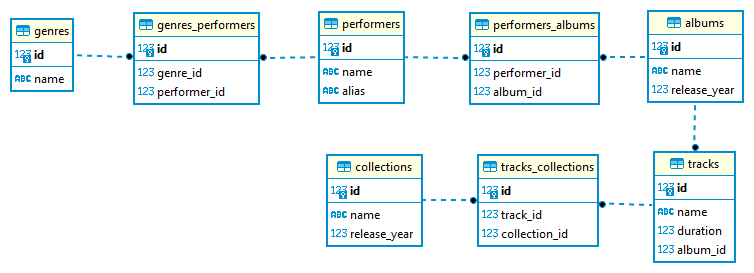
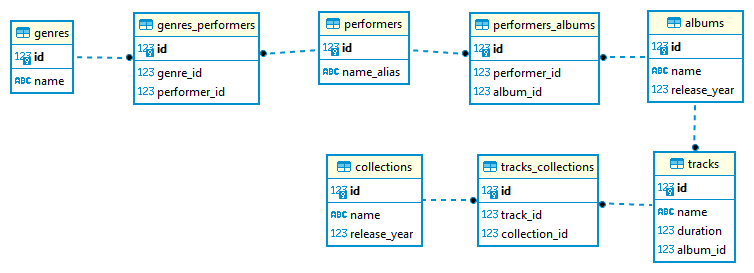
Add INSERT, SELECT

diff --git a/DZ_music_site_INSERT.py b/DZ_music_site_INSERT.py
@@ -1,0 +1,135 @@
+import sqlalchemy
+
+engine = sqlalchemy.create_engine('postgresql://sqlpy51:sql51@localhost:5432/music_site')
+connection = engine.connect()
+
+connection.execute(
+"""
+INSERT INTO genres(name)
+VALUES
+('Alternative'),
+('Indie'),
+('Rock'),
+('Classic'),
+('Metal');
+""")
+
+connection.execute(
+"""
+INSERT INTO performers(name_alias)
+VALUES
+('Nirvana'),
+('Skillet'),
+('Muse'),
+('Billie Eilish'),
+('Queen'),
+('2CELLOS'),
+('Rammstine'),
+('Linkin Park');
+""")
+
+connection.execute(
+"""
+INSERT INTO genres_performers(genre_id, performer_id)
+VALUES
+(1, 1),
+(1, 2),
+(1, 3),
+(2, 4),
+(3, 5),
+(4, 6),
+(5, 7),
+(5, 8);
+""")
+
+connection.execute(
+"""
+INSERT INTO albums(name, release_year)
+VALUES
+('Smells Like Teen Spirit', 2021),
+('Dominion', 2022),
+('Simulation Theory', 2018),
+('Happier Than Ever', 2021),
+('Live Around The World', 2020),
+('Dedicated', 2022),
+('Remixes', 2020),
+('One Step Closer', 2021);
+""")
+
+connection.execute(
+"""
+INSERT INTO performers_albums(performer_id, album_id)
+VALUES
+(1, 1),
+(2, 2),
+(3, 3),
+(4, 4),
+(5, 5),
+(6, 6),
+(7, 7),
+(8, 8);
+""")
+
+connection.execute(
+"""
+INSERT INTO tracks(name, duration, album_id)
+VALUES
+('Smells Like Teen Spirit', 301, 1),
+('In Bloom', 255, 1),
+('Surviving The Game', 238, 2),
+('Standing in the Storm', 257, 2),
+('Algorithm', 245, 3),
+('The Dark Side', 227, 3),
+('Getting Older', 244, 4),
+('I Did not Change My Number', 158, 4),
+('Tear It Up', 184, 5),
+('Now I am Here', 306, 5),
+('Wherever I Go', 201, 6),
+('bad guy', 154, 6),
+('Du riechst so gut', 285, 7),
+('Rammstein In The House ', 384, 7),
+('One Step Closer', 141, 8);
+""")
+
+connection.execute(
+"""
+INSERT INTO collections(name, release_year)
+VALUES
+('Freedom 1', 2018),
+('Freedom 2', 2020),
+('Freedom 3', 2021),
+('Freedom 4', 2022),
+('Sammer 1', 2020),
+('Spring 1', 2018),
+('Spring 2', 2020),
+('Spring 3', 2021);
+""")
+
+connection.execute(
+"""
+INSERT INTO tracks_collections(track_id, collection_id)
+VALUES
+(1, 3),
+(1, 8),
+(2, 3),
+(2, 8),
+(3, 4),
+(4, 4),
+(5, 1),
+(5, 6),
+(6, 1),
+(6, 6),
+(7, 3),
+(8, 3),
+(9, 2),
+(9, 5),
+(10, 2),
+(10, 5),
+(11, 4),
+(12, 4),
+(13, 2),
+(13, 7),
+(14, 2),
+(14, 7),
+(15, 8);
+""")

diff --git a/DZ_music_site_SELECT.py b/DZ_music_site_SELECT.py
@@ -1,0 +1,47 @@
+import sqlalchemy
+
+engine = sqlalchemy.create_engine('postgresql://sqlpy51:sql51@localhost:5432/music_site')
+connection = engine.connect()
+
+# название и год выхода альбомов, вышедших в 2018 году;
+print(connection.execute(
+"""
+SELECT name, release_year FROM albums
+WHERE release_year = 2018;
+""").fetchall())
+
+# название и продолжительность самого длительного трека;
+print(connection.execute(
+"""
+SELECT name, duration FROM tracks
+ORDER BY duration DESC
+LIMIT 1;
+""").fetchall())
+
+# название треков, продолжительность которых не менее 3,5 минуты;
+print(connection.execute(
+"""
+SELECT name FROM tracks
+WHERE duration >= 210;
+""").fetchall())
+
+# названия сборников, вышедших в период с 2018 по 2020 год включительно;
+print(connection.execute(
+"""
+SELECT name FROM collections
+WHERE release_year BETWEEN 2018 AND 2020;
+""").fetchall())
+
+# исполнители, чье имя состоит из 1 слова;
+print(connection.execute(
+"""
+SELECT name_alias FROM performers
+WHERE name_alias NOT LIKE '%% %%';
+""").fetchall())
+
+# название треков, которые содержат слово "мой"/"my".
+print(connection.execute(
+"""
+SELECT name FROM tracks
+WHERE name  iLIKE '%%my%%';
+""").fetchall())
